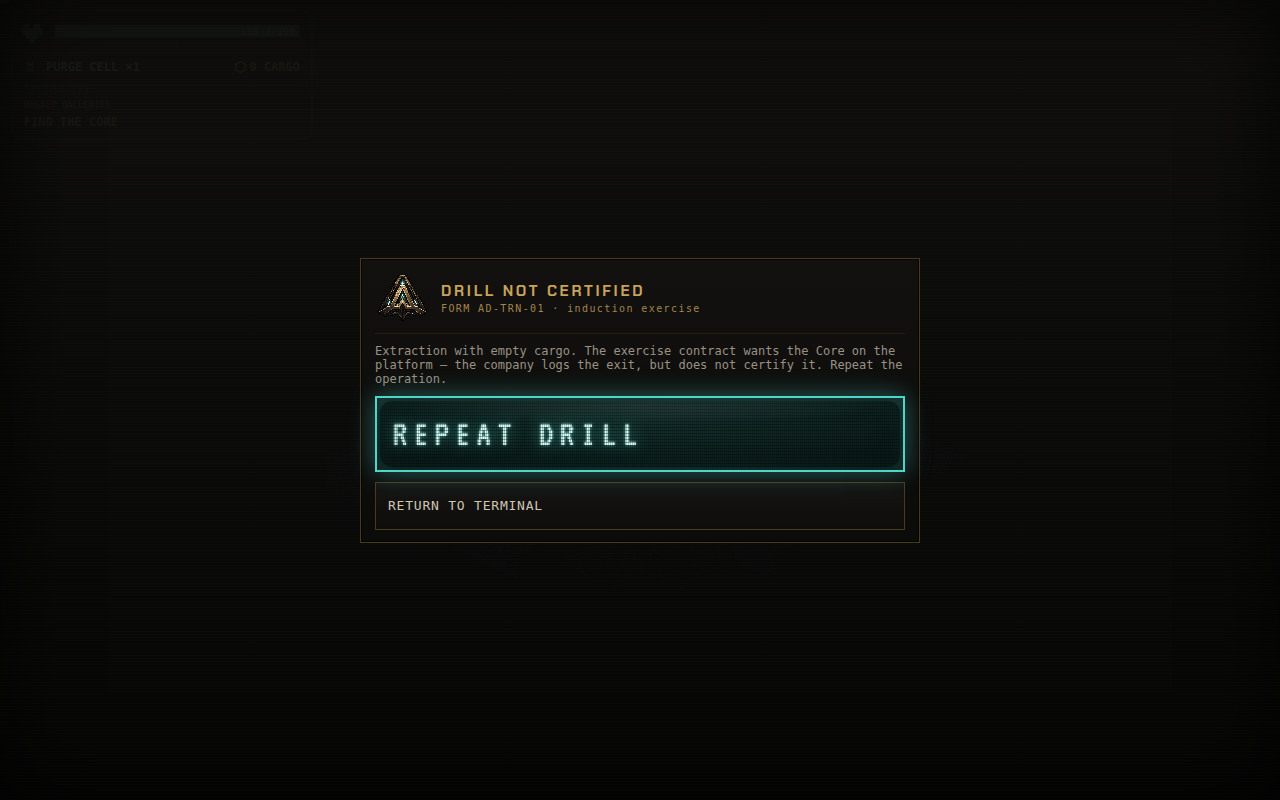
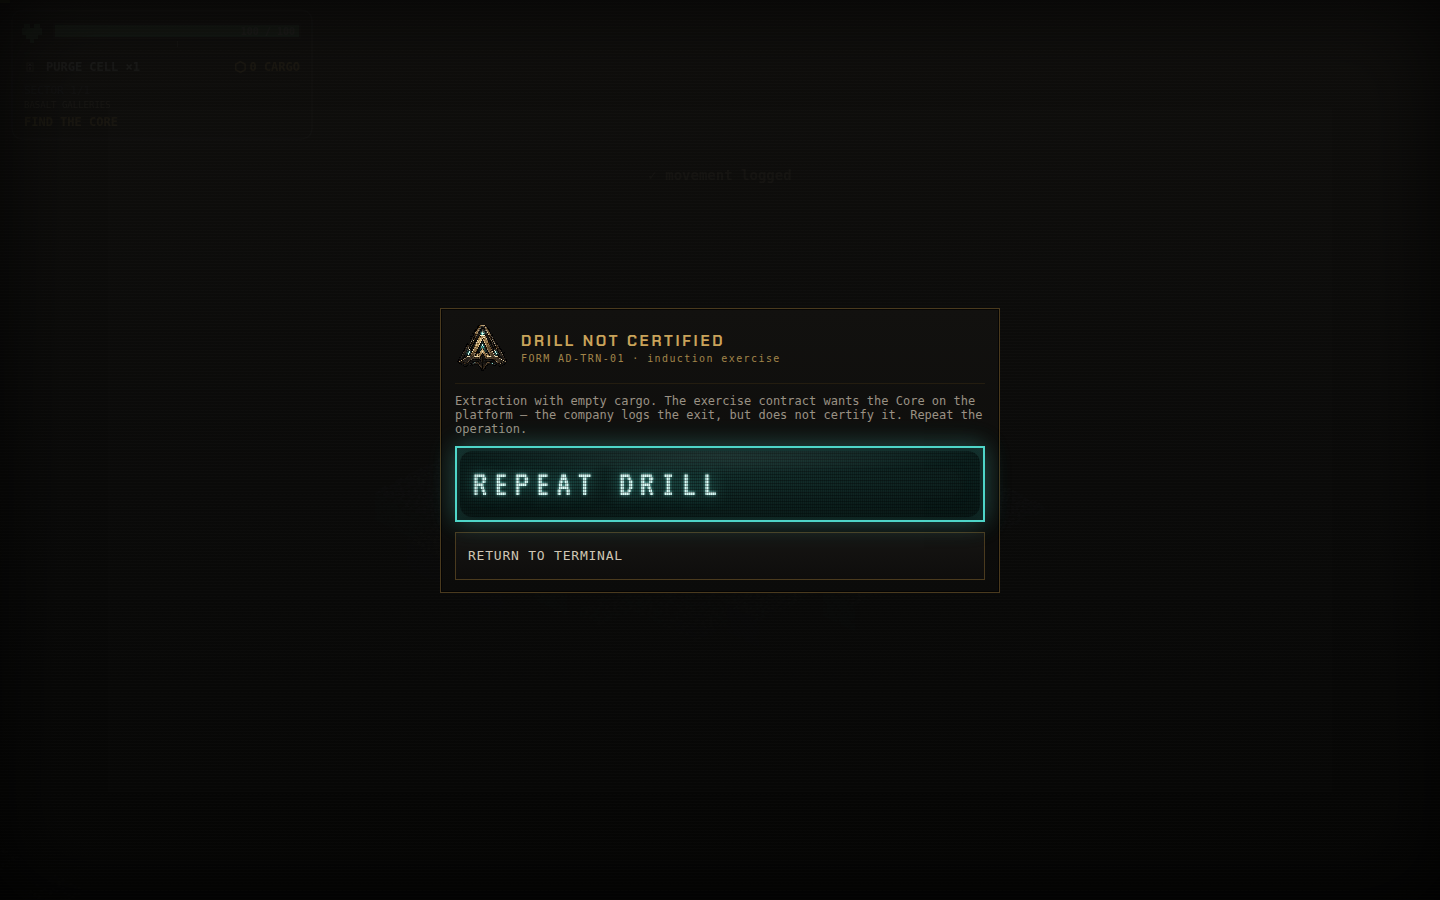
Devlog 113: itch.io copy, and a consistent not-certified capture
Adds an itch.io version of the Training Operation post. It drops the
repo metadata (commit, PR number, entry numbering), starts at H2 since
itch keeps the title in its own field, marks where each of the eight
screenshots goes, and closes by asking players for the same blunt kind
of feedback that prompted the feature.

Recaptures the not-certified form at 1440x900 so every image in the
post shares one resolution.

Claude-Session: https://claude.ai/code/session_01NVd54VFYtQ2puUsbxmvdpH

Changed region(s): [[0.2812, 0.4375, 0.7188, 0.6875], [0.2812, 0.3438, 0.5625, 0.4062]]

diff --git a/docs/devlog/social/113.itch.md b/docs/devlog/social/113.itch.md
@@ -1,0 +1,176 @@
+Somebody played Voxelyn blind. Three runs, no guide, no questions asked, and he got
+measurably further each time. Then he wrote me the single most useful sentence anyone has
+ever sent about this game:
+
+> I didn't exactly know what the exact goal was.
+
+Here is the thing. The goal is written down. It is on a screen he definitely saw, in the
+Operator Induction, article two, set in the mining company's own bold voice: descend,
+recover, extract, and cargo only clears once you get back out. We wrote that sentence
+carefully. We were proud of that sentence.
+
+He read it. It did not land. That is not a player problem, that is a design problem, and
+the fix for "my paragraph did not land" is never "write a longer paragraph".
+
+>> IMAGE 1 · 113-terminal.png · The dispatch terminal, now with a training button under the descent stamp
+
+## The document already knew
+
+The funniest part is that the induction file has been confessing this for weeks. There is
+a comment sitting at the top of it saying that it is not a guided tutorial, that it stops
+exactly where discovery begins, and that its job is to make the first descent legible
+rather than to solve it.
+
+It was right about itself. Reading about a dodge has never once taught anybody to dodge.
+So instead of rewriting the briefing for the fourth time, I built the thing the briefing
+politely refuses to be.
+
+Meet the Training Operation: a short, in fiction, fully playable drill. Two to three
+minutes. Five exercises. Move, fire, dash, take the Core, get back out alive.
+
+>> IMAGE 2 · 113-briefing.png · The briefing, with AUTHORISE DESCENT as the stamp and TRAINING OPERATION as the second button
+
+It shows up in two places and it is never mandatory in either of them. There is a
+permanent button on the terminal, and the first time you read the induction it now ends
+with two buttons instead of one. The big glowing stamp still authorises a real descent.
+The quiet one under it starts the drill. If you open the briefing from the training button
+and then change your mind halfway down the page, the stamp still sends you into the real
+Vein, because the stamp means what it says and not what you clicked to get here.
+
+## No second engine, and I am insufferable about it
+
+Zero lines changed in the simulation. Not one. The drill is the real game with surgery
+performed on it before the first tick.
+
+The whole trick is a run configuration that already existed:
+
+    sectorCount: 1, coreSectors: [1]
+
+Read that as a sentence and it is literally the tutorial: this run is one sector long and
+the Core is in it. Two accidents of the existing rules make it work for free.
+
+First, the boss rule starts with "sector one never has a boss", so the pedestal is unlocked
+from the first frame with nothing to kill for the privilege. Second, extracting with the
+Core in sector one produces the exact same run outcome a real successful expedition
+produces. Not a lookalike. The same one.
+
+The best part is what that buys in the HUD. The objective line reads FIND THE CORE, and
+the moment you lift the Core off the pedestal it flips itself to EXTRACT AT THE ENTRANCE.
+That is the real HUD doing the real thing. There is no tutorial HUD, no special overlay,
+no tutorial mode hiding in the rules anywhere. The player learns the actual instrument
+panel because it is the actual instrument panel.
+
+## Carving a course out of a real sector
+
+The map is not authored in an editor, because I do not have one and I did not want one.
+The game generates a normal sector from a fixed seed, and then the drill cuts into it
+before anything starts moving. The boss playtest tool has been doing exactly this for
+months, so the pattern was already sitting there with its receipts.
+
+The course is a straight line, on purpose, because the order of the rooms is the order of
+the lessons: entry platform, gallery, firing chamber with two stalkers in it, a corridor
+with pillars to dash around, and the pedestal chamber at the end.
+
+>> IMAGE 3 · 113-drill-move.png · Drill 1 on the entry platform, the gallery opening ahead
+
+Everything not in that course becomes plain rock with its surface wiped. That is stricter
+than it sounds, and it matters. The lazy version just fills the gaps, which leaves the
+sealed rock holding all the ore and crystal the seed originally put in it. Crystal emits
+light. You would end up with a sealed wall quietly glowing blue, advertising a place the
+drill has just declared does not exist.
+
+Then there was the seed hunt, which went great, thanks for asking. The plan was to find a
+seed whose entrance sits somewhere roomy, so the course fits without touching the edge of
+the map. I scanned a few hundred. There is no such seed. The generator puts every single
+entrance flat against the border like a fire exit. So the course steps inward on its own
+and a short vestibule connects the platform to it.
+
+## The soft lock that would have been genuinely funny
+
+The instruction layer watches the same event stream that feeds the renderer and the audio,
+and hands back cues: show this banner, queue that toast. The rule inside it took a couple
+of tries to get right, and it is this. Irreversible facts are checked as facts, repeatable
+actions are checked as events.
+
+Here is why that matters. The course has no doors. Nothing stops you from ignoring the
+dash prompt, strolling into the pedestal chamber, and lifting the Core while the game is
+still politely asking you to press space. If the Core step listened only for the pickup
+event, that event would arrive during the dash step, get thrown away, and then the drill
+would sit there forever waiting for a second Core to be picked up.
+
+There is no second Core. The tutorial becomes unfinishable, which is a spectacular thing
+for a tutorial to be.
+
+So dashing is checked as an event, because you can always dash again, and the Core is
+checked as a fact, because possession does not expire. Breaking the sequence now skips
+ahead instead of locking up.
+
+## Combat, or: how the screenshot bot learned to shoot
+
+>> IMAGE 4 · 113-combat.png · Drill 2, a stalker closing in, heat bar climbing
+
+To illustrate this post I wrote a script to play the drill for me. I want to be clear that
+the game won the first several rounds.
+
+Round one ended at twenty six seconds with a unit loss report that read "Stalker reached
+you", and underneath it, the field recommendation: melee is telegraphed, the windup sound
+arrives before the blow. Being coached by your own death screen is a humbling experience I
+recommend to every developer.
+
+>> IMAGE 5 · 113-death.png · The death screen inside the drill: one kill, 102 damage taken
+
+Round two I made the bot retreat while shooting, and it survived beautifully for thirty
+straight passes without killing anything, which is its own kind of failure.
+
+Then it clicked. Aim assist is a purchased upgrade, and the drill deliberately runs the
+factory chassis with no upgrades at all, because that is exactly what a new player has.
+The bot had to actually aim. So it started reading the screen: find the red pixels, that
+is a stalker, put the mouse there. Combat went from "dies" to "cleared in eight passes"
+with one change.
+
+Navigation was the same story twice more. It could not find the pedestal, so it learned to
+chase the teal glow. Then it drove face first into a wall in a perfectly straight line
+forever, so it learned to sidestep whenever the distance stops dropping.
+
+>> IMAGE 6 · 113-pedestal.png · The Core pedestal, lit, with the drill asking for E
+
+It picks up the Core reliably now, and that is where the album ends. The bot never did
+figure out the way home, and every attempt to teach it cost more time than the screenshot
+was worth. So there is no photo of the final extraction and I have made my peace with
+that. A human walks it in about fifteen seconds, which is either a nice comment on level
+design or a sad one on my scripting.
+
+>> IMAGE 7 · 113-core-taken.png · Core taken, and the HUD flips itself to EXTRACT AT THE ENTRANCE
+
+## The bug I am most fond of
+
+Two problems turned up in review, and I would have shipped both of them happily.
+
+The first is my favourite of the month. Extracting empty handed certified the drill. Walk
+four tiles out, walk four tiles back, press E, and the game hands you DRILL CERTIFIED for
+having learned absolutely nothing. It congratulated you for skipping the entire
+curriculum. Now an empty extraction gets its own outcome, in the same corporate voice, and
+the main button turns into REPEAT DRILL instead of waving you off into a real descent.
+
+>> IMAGE 8 · 113-not-certified.png · DRILL NOT CERTIFIED, with REPEAT DRILL as the primary button
+
+The second was a ghost. With the completion form on screen the run had stopped but had
+never been properly closed, so pressing Escape still opened the field menu underneath the
+form, and the field menu helpfully took the shared options controls with it, leaving the
+terminal's Options screen empty afterwards. The run now closes the instant the form
+appears rather than when a button is finally clicked.
+
+## What it refuses to do
+
+The drill never blocks you, never unlocks anything, and pays exactly nothing. The
+completion form says so out loud, because the fiction should stay honest: training yields
+nothing, the Vein below is where the money is.
+
+And when it does teach you, it teaches with the real thing. Same Core, same interact key,
+same HUD, same extraction, same rules that will later decide whether an hour of cargo
+banks or evaporates. Nobody practices on a toy version of the loop and then gets handed
+the real one at the worst possible moment.
+
+The button is on the terminal screen. It takes two minutes, and if it fails to land the
+way the briefing failed to land, I would very much like to hear about it, in as blunt a
+sentence as the one that started all this.
